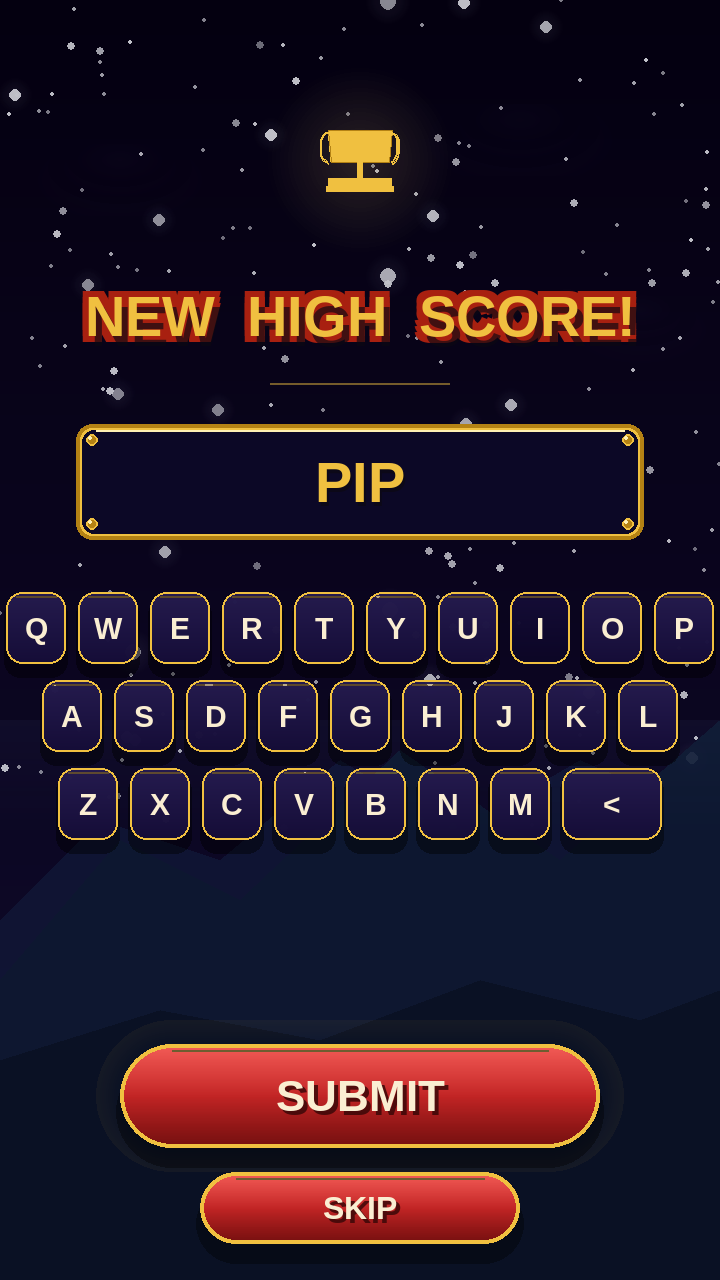
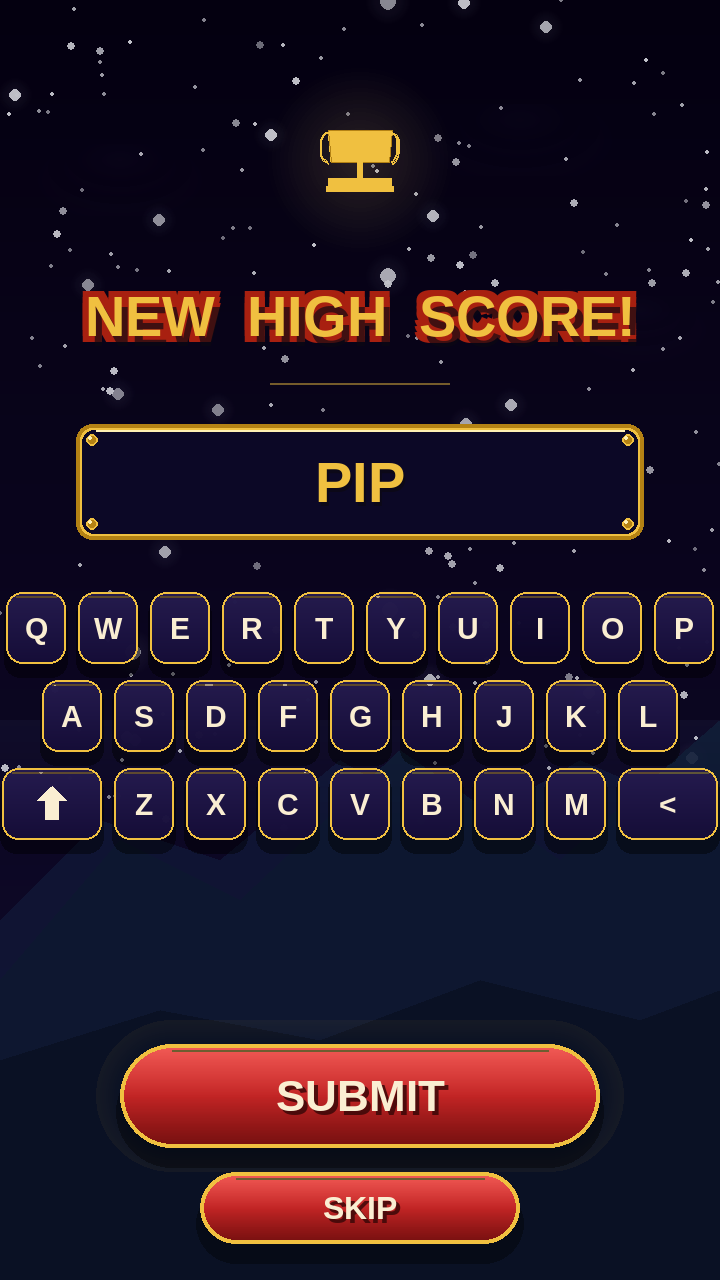
scarlet set: add SHIFT key to name-entry keyboard
Bottom row now mirrors iOS / Android: shift on the left, backspace on
the right. Shift glyph is drawn as a polygon since LiberationSans-Bold
lacks the unicode shift symbol. Auto-shift convention (first letter
capital, then off) matches the v3_skybit live keyboard.

Changed region(s): [[0.1222, 0.5938, 0.8861, 0.6562], [0.0, 0.5938, 0.0917, 0.6562], [0.9167, 0.5938, 1.0, 0.6562]]

diff --git a/tools/gen_scarlet_set.py b/tools/gen_scarlet_set.py
@@ -663,34 +663,69 @@ def draw_key(surf, x, y, w, h, label, sample_pressed=False):
     surf.blit(lf, lf.get_rect(center=(x + w // 2, y + h // 2)))
 
 
+def draw_shift_glyph(surf, cx, cy, size):
+    """iOS-style shift symbol: up-pointing chevron over a stub base, in
+    CREAM so it reads on the navy key face."""
+    h = size
+    w = size * 0.82
+    head_y = cy - h * 0.10  # top-of-base / bottom-of-chevron
+    pts = [
+        (cx,                cy - h * 0.50),  # tip
+        (cx + w * 0.50,     head_y),         # right shoulder
+        (cx + w * 0.22,     head_y),         # right inner
+        (cx + w * 0.22,     cy + h * 0.42),  # right base bottom
+        (cx - w * 0.22,     cy + h * 0.42),  # left base bottom
+        (cx - w * 0.22,     head_y),         # left inner
+        (cx - w * 0.50,     head_y),         # left shoulder
+    ]
+    pygame.draw.polygon(surf, CREAM, pts)
+
+
 def draw_keyboard(surf, top_y):
-    """3-row QWERTY keyboard below `top_y`. Bottom row has a backspace
-    on the right + a SPACE-style padding so the row balances."""
+    """3-row QWERTY keyboard below `top_y`. Bottom row has a SHIFT key
+    on the left and a BACKSPACE key on the right — same positions as
+    iOS / Android soft keyboards. Shift drives auto-capitalisation: ON
+    for the first character of a fresh name, OFF after one letter."""
     rows = ["QWERTYUIOP", "ASDFGHJKL", "ZXCVBNM"]
     key_w = 30 * SCALE
     key_h = 36 * SCALE
     gap = 6 * SCALE
     row_pitch = key_h + 8 * SCALE
+    special_w = 50 * SCALE  # shift + backspace match-width
 
     for ridx, row in enumerate(rows):
         n = len(row)
         if ridx == 2:
-            # bottom row gets a backspace key on the right
-            total_w = n * key_w + (n - 1) * gap + (gap + 50 * SCALE)
+            # bottom row: SHIFT (left) + 7 letters + BACKSPACE (right)
+            total_w = n * key_w + (n - 1) * gap + 2 * (gap + special_w)
         else:
             total_w = n * key_w + (n - 1) * gap
         start_x = (W - total_w) // 2
         y = top_y + ridx * row_pitch
+
+        if ridx == 2:
+            # Shift key on the far left — same width as backspace.
+            # draw_key with an empty label gives us the face/border; the
+            # shift glyph is drawn on top as a polygon (font lacks ⇧).
+            draw_key(surf, start_x, y, special_w, key_h, "")
+            draw_shift_glyph(surf,
+                             start_x + special_w // 2,
+                             y + key_h // 2,
+                             size=18 * SCALE)
+            letters_x = start_x + special_w + gap
+        else:
+            letters_x = start_x
+
         # Pressed-state demo: highlight "I" so the user sees the
         # hover/tap rendering on a real letter
         for kidx, ch in enumerate(row):
-            x = start_x + kidx * (key_w + gap)
+            x = letters_x + kidx * (key_w + gap)
             draw_key(surf, x, y, key_w, key_h, ch,
                      sample_pressed=(ch == "I"))
         if ridx == 2:
-            # Backspace key — slightly wider
-            bx = start_x + n * (key_w + gap)
-            draw_key(surf, bx, y, 50 * SCALE, key_h, "<")
+            # Backspace key — far right, mirroring the shift width
+            bx = letters_x + n * (key_w + gap)
+            draw_key(surf, bx, y, special_w, key_h, "<")
 
 
 def screen_name_entry():
